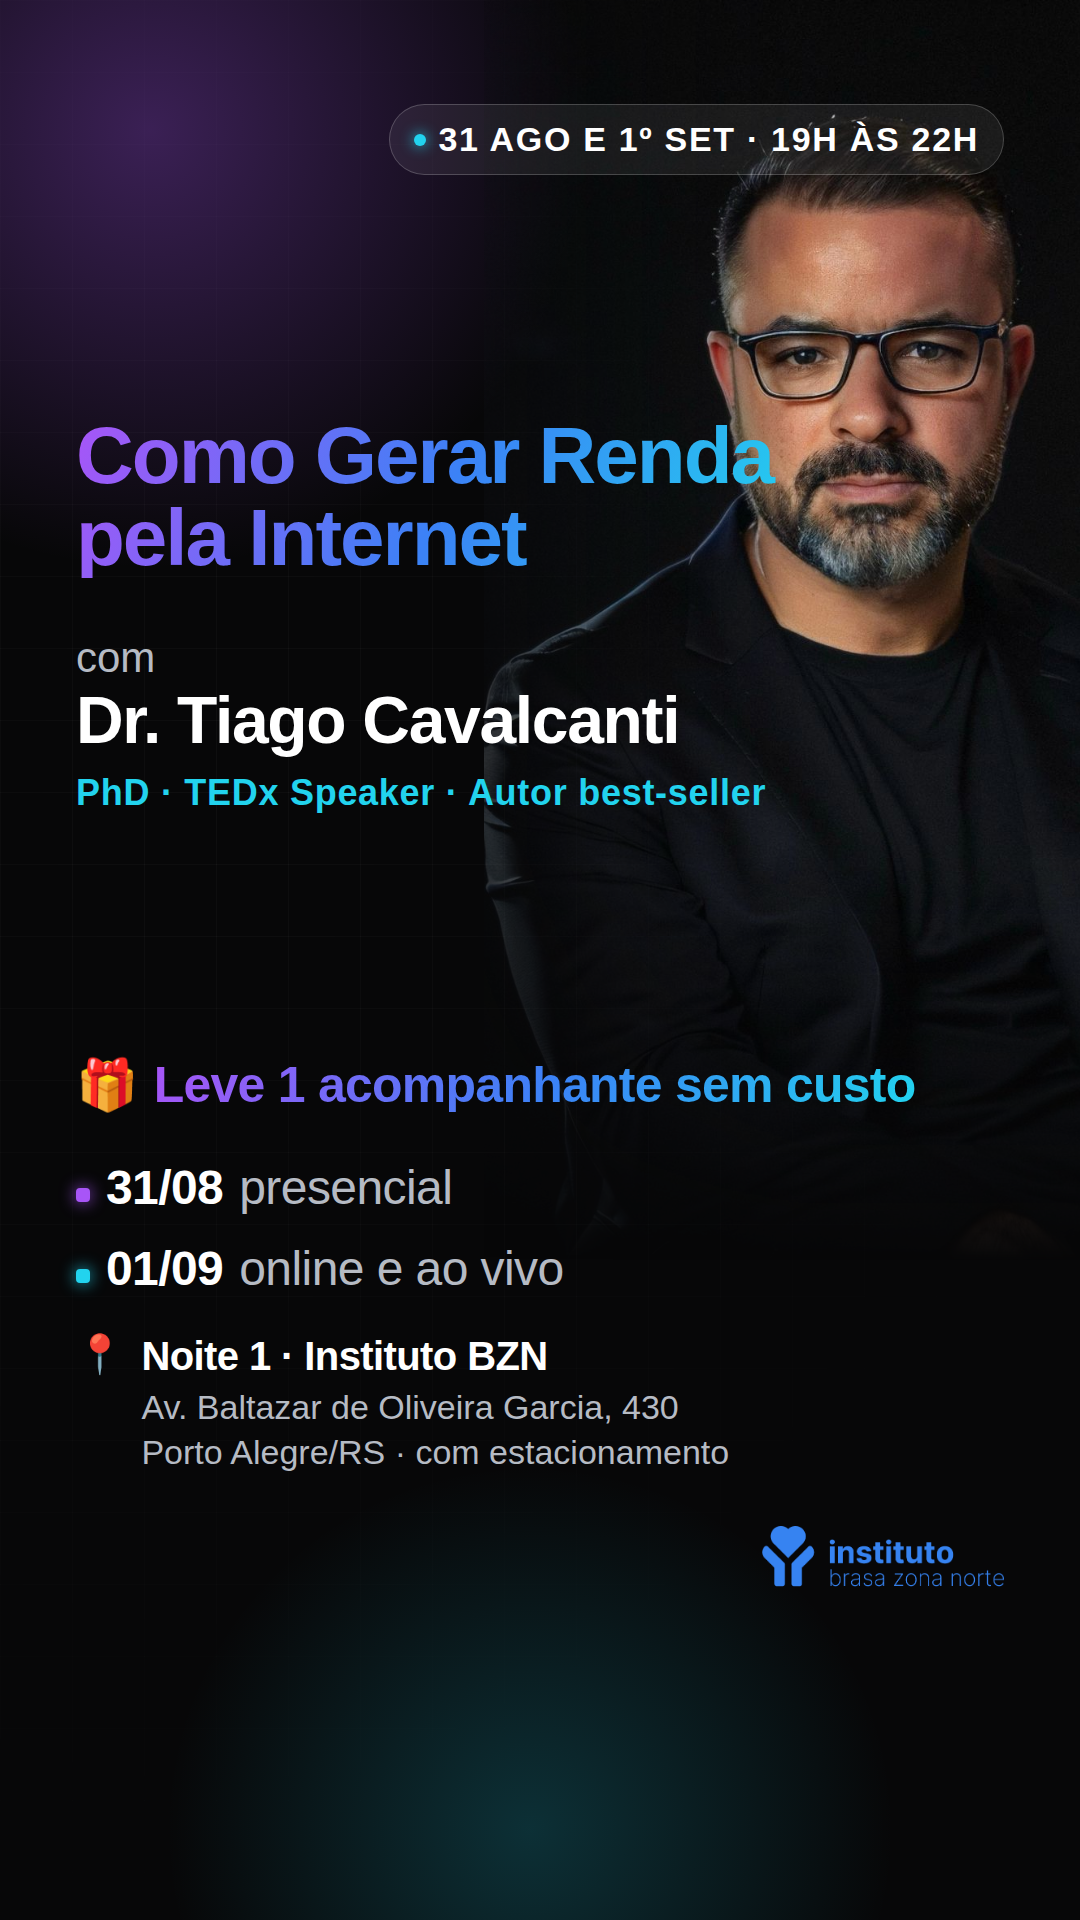
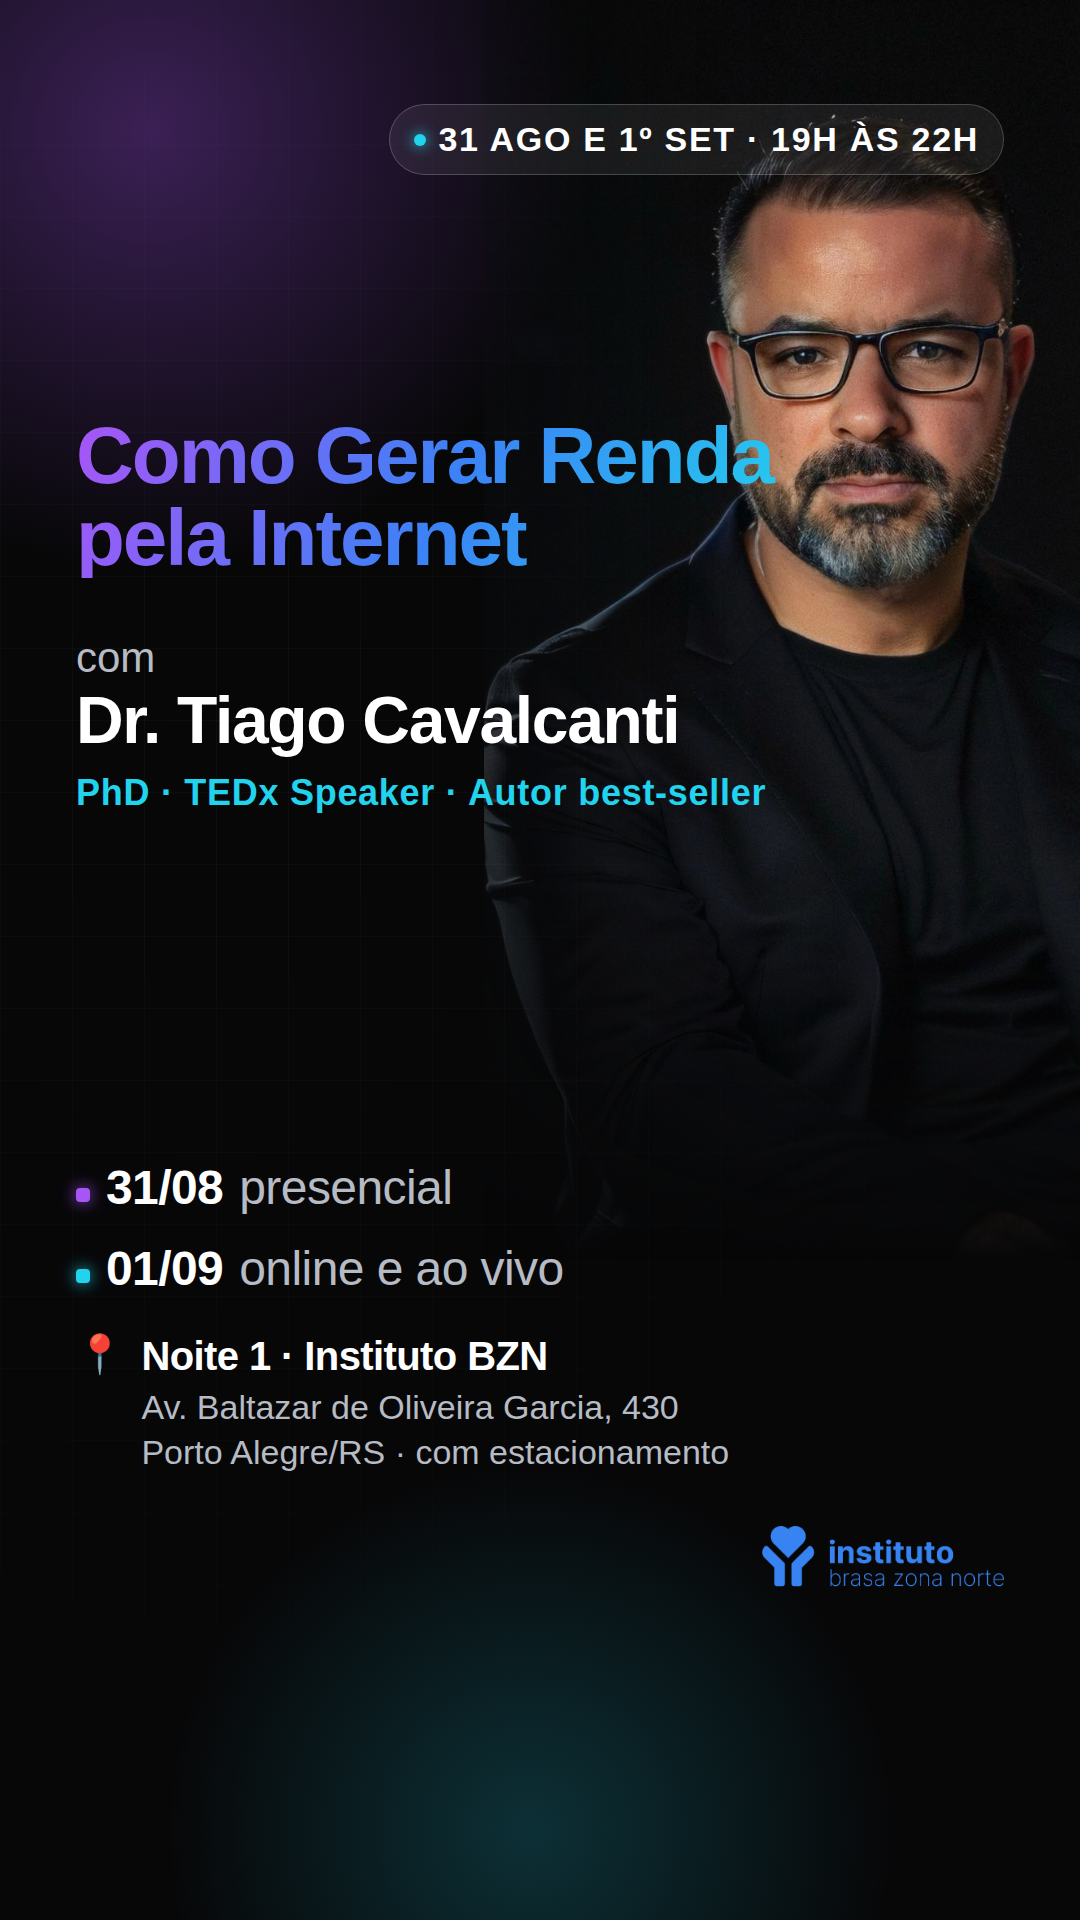
Tira a frase do acompanhante tambem dos stories
A mensagem sai das quatro pecas e passa a viver so no texto do anuncio.
O bonus segue disponivel como parametro do gerador, caso volte a fazer
sentido em alguma peca.

Claude-Session: https://claude.ai/code/session_01WbkxUMsJSRAA9ULHXDAkuJ

Changed region(s): [[0.1528, 0.5625, 0.8556, 0.5938], [0.0611, 0.5312, 0.1222, 0.5938]]

diff --git a/tools/cards/legivel.py b/tools/cards/legivel.py
@@ -256,7 +256,7 @@ STORY = dict(
     GAP_SUB=34, GAP_SPK=56, GAP_CRED=16, GAP_BONUS=46, GAP_DIAS=26,
     LOC_GAP=18, LOC_TOP=38, LOC_IC=38, LOC_L1=40, LOC_L2=34,
     SIGN_TOP=50, GAP_FOOT=58,
-    WA_GAP=0, WA_IC=1, WA_L1=1, WA_L2=1, CTA='', BONUS=BONUS_ACOMPANHANTE,
+    WA_GAP=0, WA_IC=1, WA_L1=1, WA_L2=1, CTA='', BONUS='',
 )
 
 # Com CTA: post organico, story do perfil e disparo em grupo, onde nao ha
